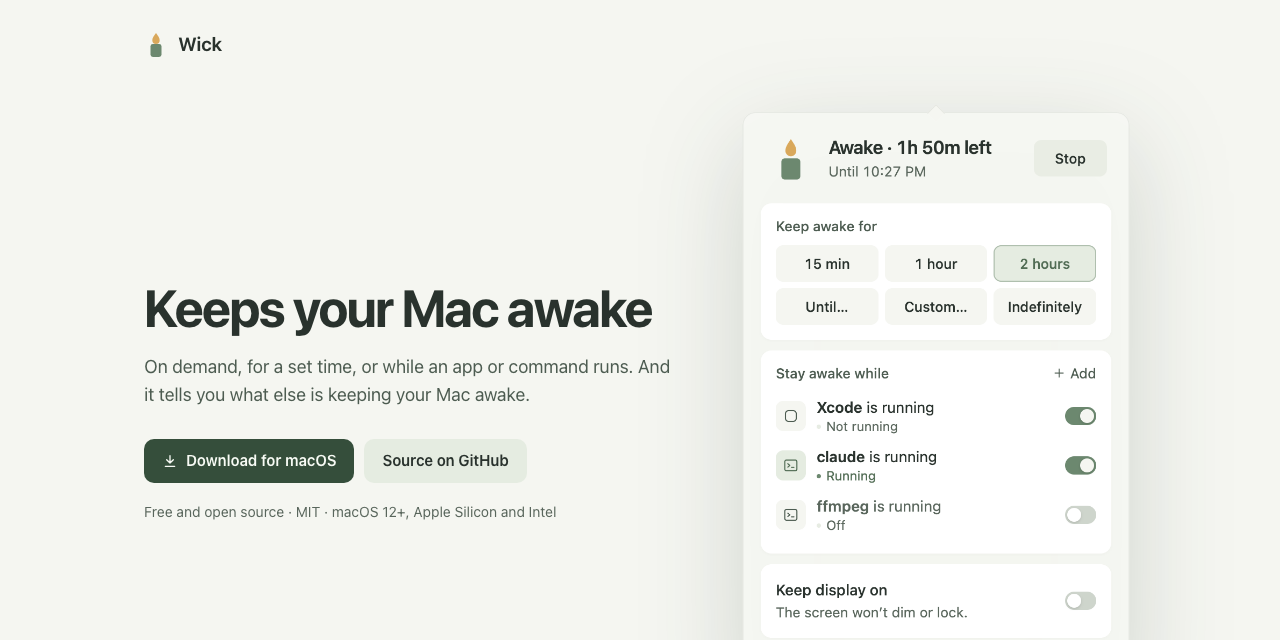
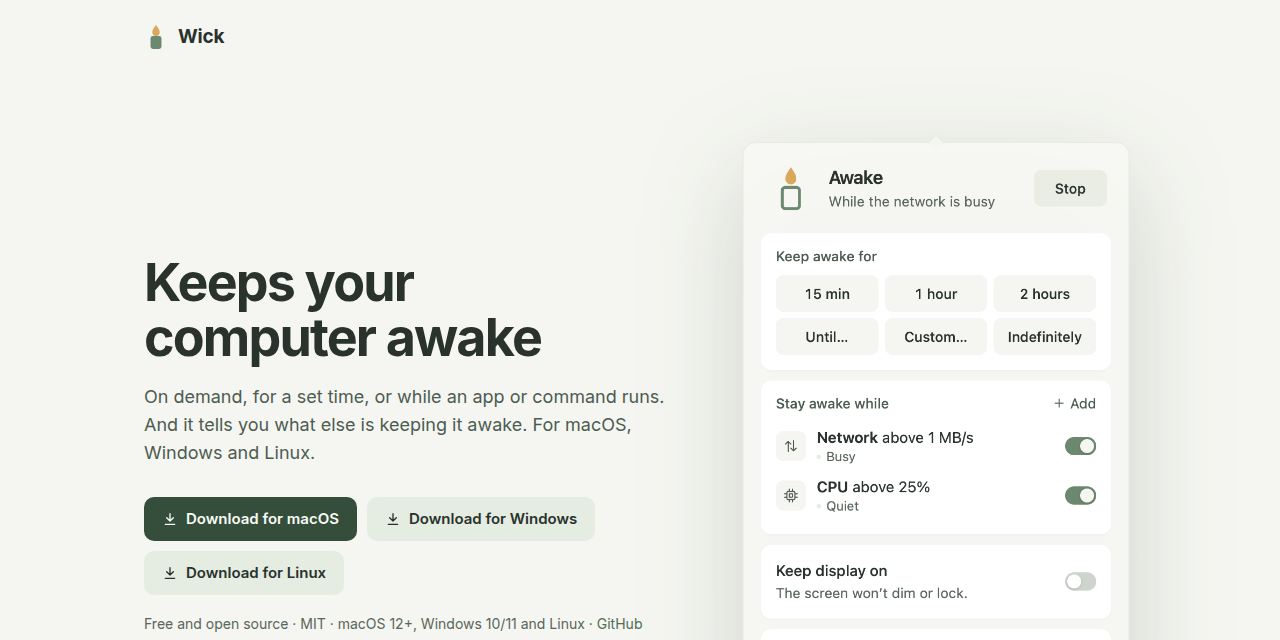
docs(site): say computer in the metadata and redraw the social image
The page said "computer" and offered three downloads, but its title,
description, Open Graph tags and social image still said Mac and
"Download for macOS". The image is now rendered from the page itself
with scripts/og-image.mjs, and the release guide says when to redo it.

diff --git a/site/index.html b/site/index.html
@@ -3,8 +3,8 @@
 <head>
 <meta charset="utf-8">
 <meta name="viewport" content="width=device-width, initial-scale=1">
-<title>Wick — keeps your Mac awake</title>
-<meta name="description" content="Free, open-source menu bar app that keeps your Mac awake: on demand, for a set time, or while an app or command runs. Shows what else keeps your Mac awake.">
+<title>Wick — keeps your computer awake</title>
+<meta name="description" content="Free, open-source menu bar and tray app that keeps your computer awake on macOS, Windows and Linux: on demand, for a set time, or while an app or command runs. Shows what else keeps it awake.">
 <meta name="color-scheme" content="light dark">
 <meta name="theme-color" content="#f5f6f1" media="(prefers-color-scheme: light)">
 <meta name="theme-color" content="#1b201d" media="(prefers-color-scheme: dark)">
@@ -12,13 +12,13 @@
 <link rel="canonical" href="https://abulkosim.github.io/wick/">
 <meta property="og:type" content="website">
 <meta property="og:site_name" content="Wick">
-<meta property="og:title" content="Wick — keeps your Mac awake">
-<meta property="og:description" content="Keep your Mac awake on demand, for a set time, or while an app or command runs. Free and open source.">
+<meta property="og:title" content="Wick — keeps your computer awake">
+<meta property="og:description" content="Keep your computer awake on demand, for a set time, or while an app or command runs. macOS, Windows and Linux. Free and open source.">
 <meta property="og:url" content="https://abulkosim.github.io/wick/">
 <meta property="og:image" content="https://abulkosim.github.io/wick/og.png">
 <meta property="og:image:width" content="1280">
 <meta property="og:image:height" content="640">
-<meta property="og:image:alt" content="Wick: keeps your Mac awake, with the popover showing a two-hour session and app triggers">
+<meta property="og:image:alt" content="Wick: keeps your computer awake, with downloads for macOS, Windows and Linux beside the popover">
 <meta name="twitter:card" content="summary_large_image">
 <style>
 :root {
@@ -184,7 +184,7 @@ footer a:hover { color: var(--ink); }
         </li>
         <li>
           <h3>What else is awake</h3>
-          <p>See which apps hold your Mac awake and why: a call, audio playing, or a <code>caffeinate</code> started by a tool.</p>
+          <p>See which apps hold your computer awake and why: a call, audio playing, or a <code>caffeinate</code> started by a tool. On macOS and Linux.</p>
         </li>
         <li>
           <h3>Careful by default</h3>

diff --git a/docs/releasing.md b/docs/releasing.md
@@ -52,6 +52,10 @@ Actions are pinned to commit SHAs (the repository requires it), runner images an
 
 The workflow refuses to replace assets on a published release. Never edit a published release's files or reuse a version; ship a new patch.
 
+## Screenshots and social image
+
+When visible copy changes, refresh the README and site screenshots from the demo states, then render the social image from the site: `node scripts/og-image.mjs site/index.html site/og.png` and copy it to `docs/images/social-preview.png`. GitHub's social preview is uploaded by hand in the repository settings.
+
 ## Homebrew
 
 `packaging/homebrew/Casks/wick.rb` is the cask; [Abulkosim/homebrew-tap](https://github.com/Abulkosim/homebrew-tap) serves it as `abulkosim/tap/wick`. Publishing a release runs `.github/workflows/homebrew.yml`, which reads the DMG checksum from the release's `SHA256SUMS.txt`, rewrites `version` and `sha256` with `packaging/homebrew/update-cask.mjs`, and pushes to the tap. Drafts and prereleases are refused, since their assets are not public.

diff --git a/docs/plan.md b/docs/plan.md
@@ -222,7 +222,7 @@ A full pass over code, tests, CI, docs and UX for technical debt, defects and po
   👤 Move `TAURI_SIGNING_PRIVATE_KEY` and its password into the `release` environment and delete the repo-level copies.
 - [x] **10.14 Docs.** Package updates do ask for a password on Linux; issue template, SECURITY and CONTRIBUTING cover every platform; README screen-lock note; CONTRIBUTING layout and demo states; `check-all.sh` runs the production build; the repo's Homebrew cask matches the tap; changelog date set before tagging.
   Verify: links resolve; `scripts/check-all.sh` passes.
-- [ ] **10.15 Site and social image for every platform.** Meta tags and `og.png` say computer, not Mac.
+- [x] **10.15 Site and social image for every platform.** Meta tags and `og.png` say computer, not Mac.
   Verify: screenshot of the new image; site renders.
   👤 Upload `docs/images/social-preview.png` in the repo's settings.
 - [ ] **10.16 Release v0.8.0.** Version, changelog (arm64 + sweep), README with arm64 row, full release flow.
